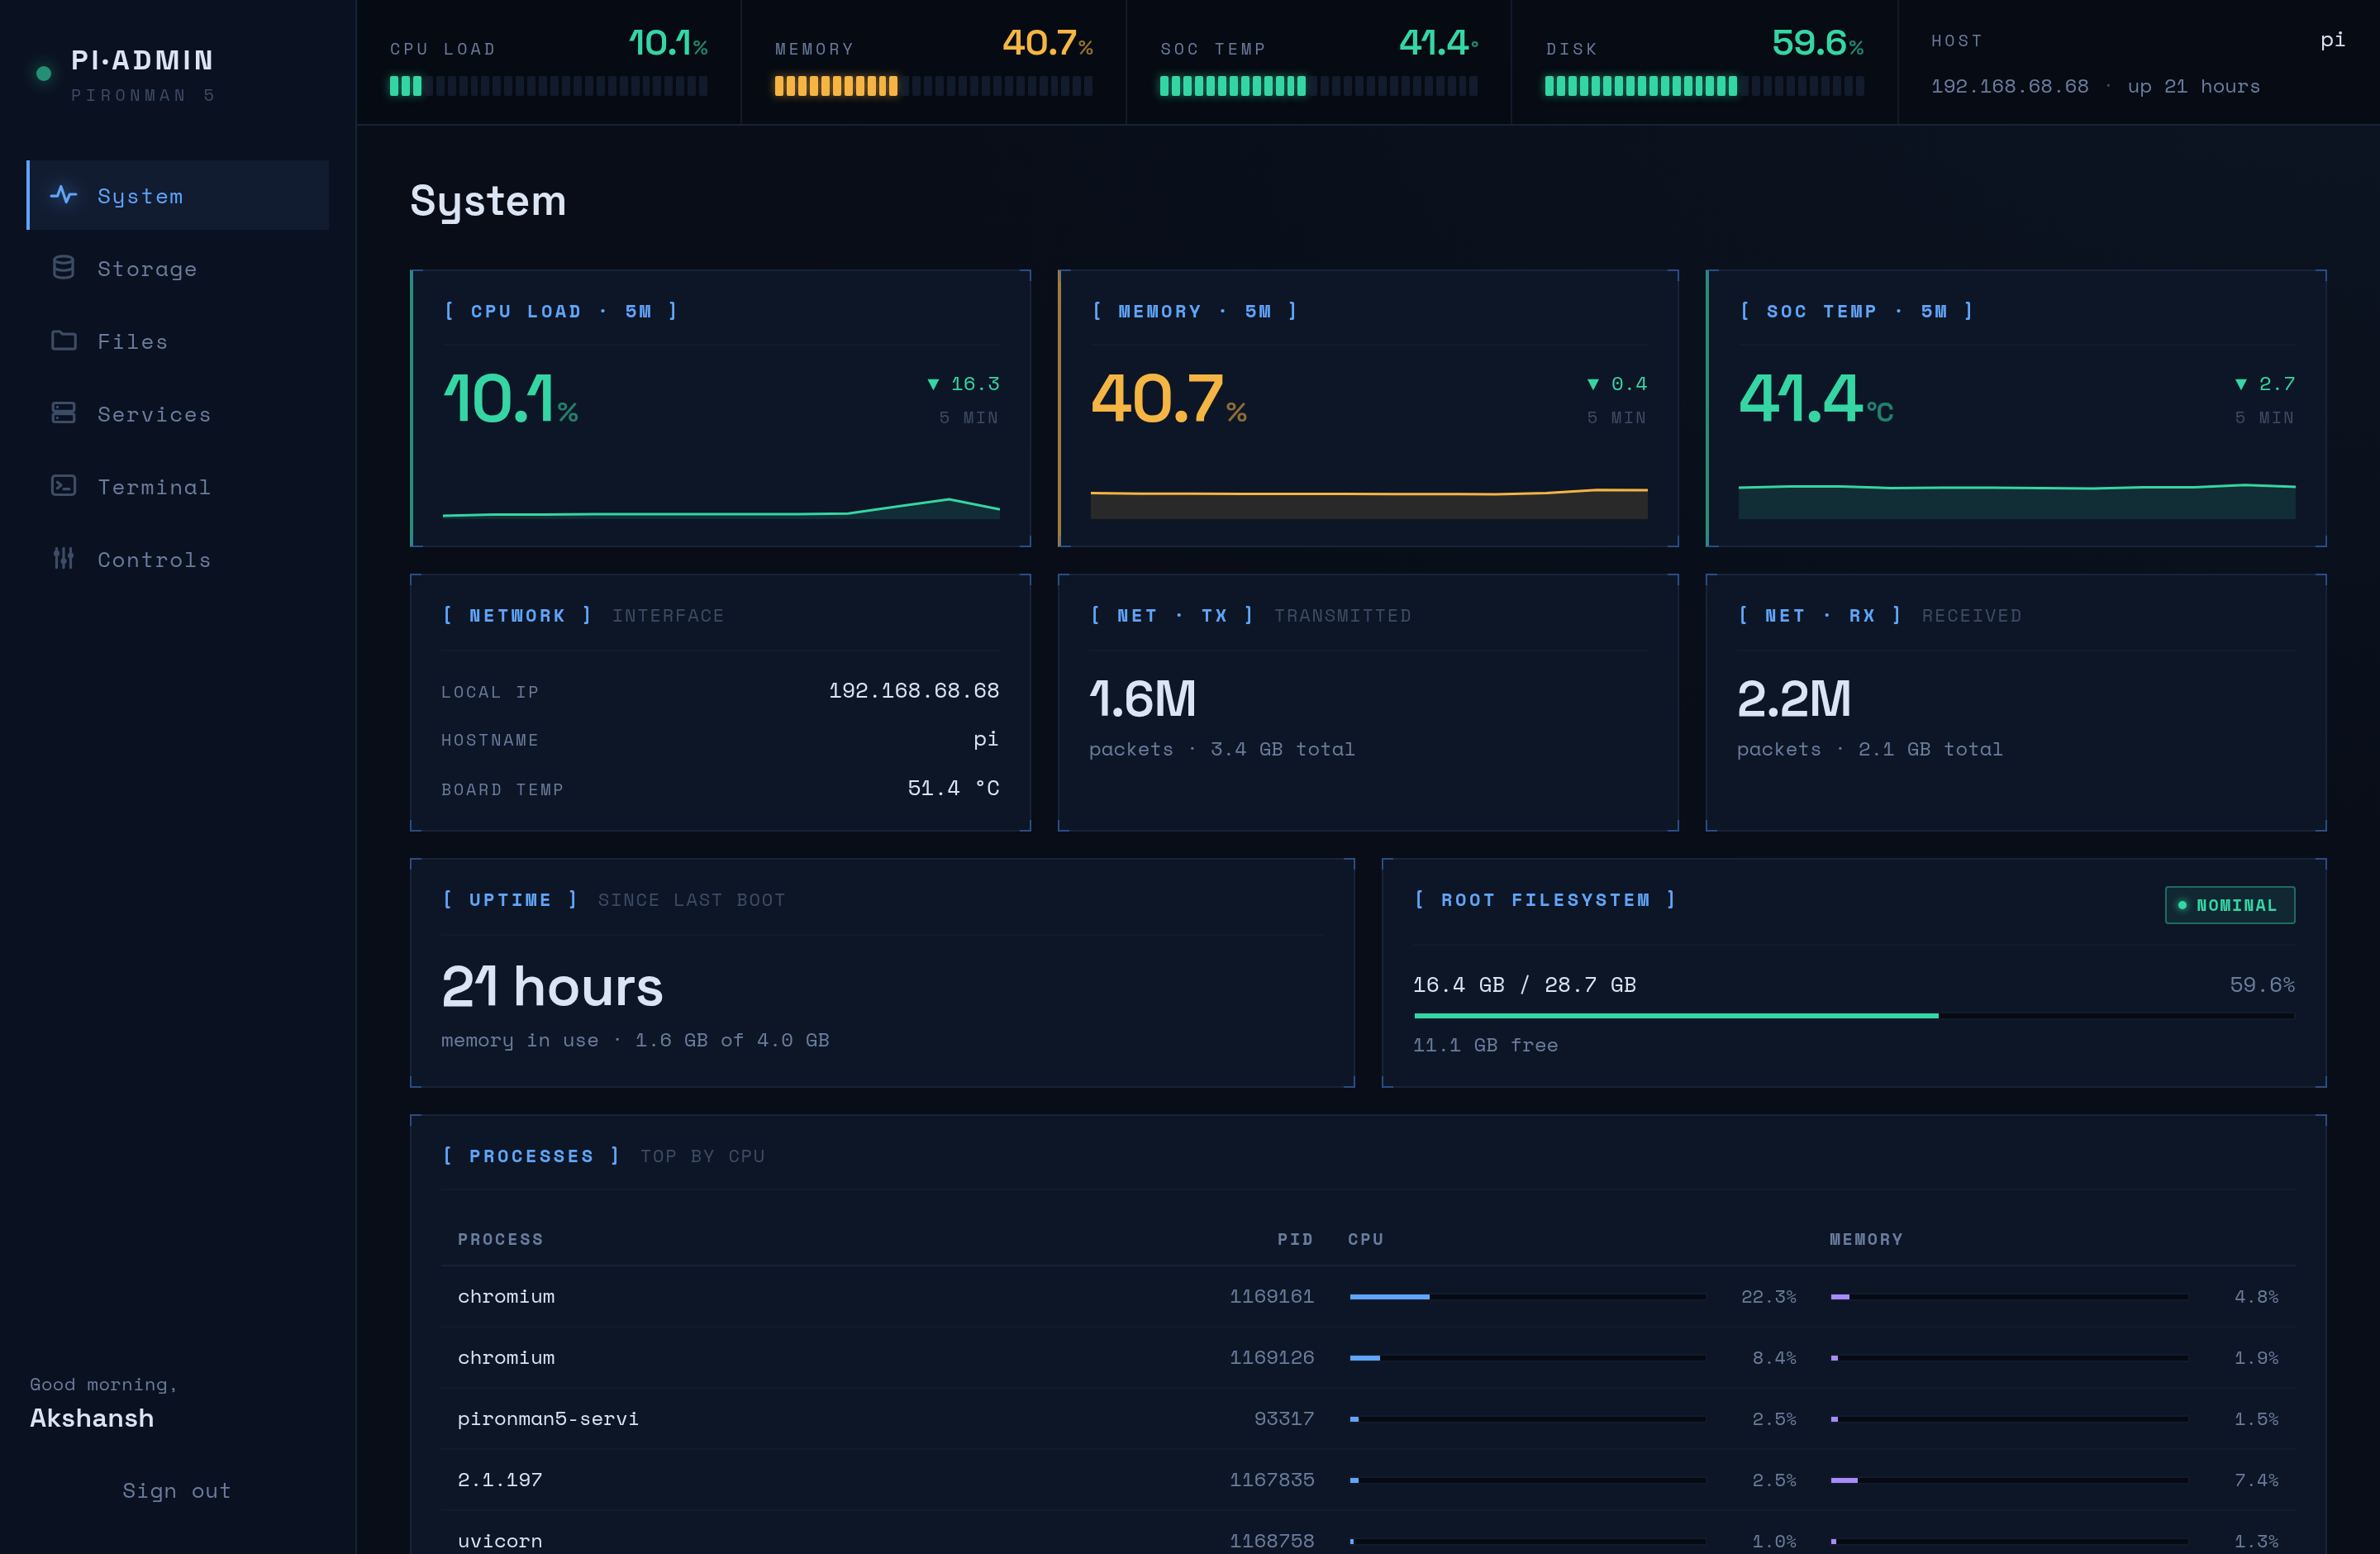
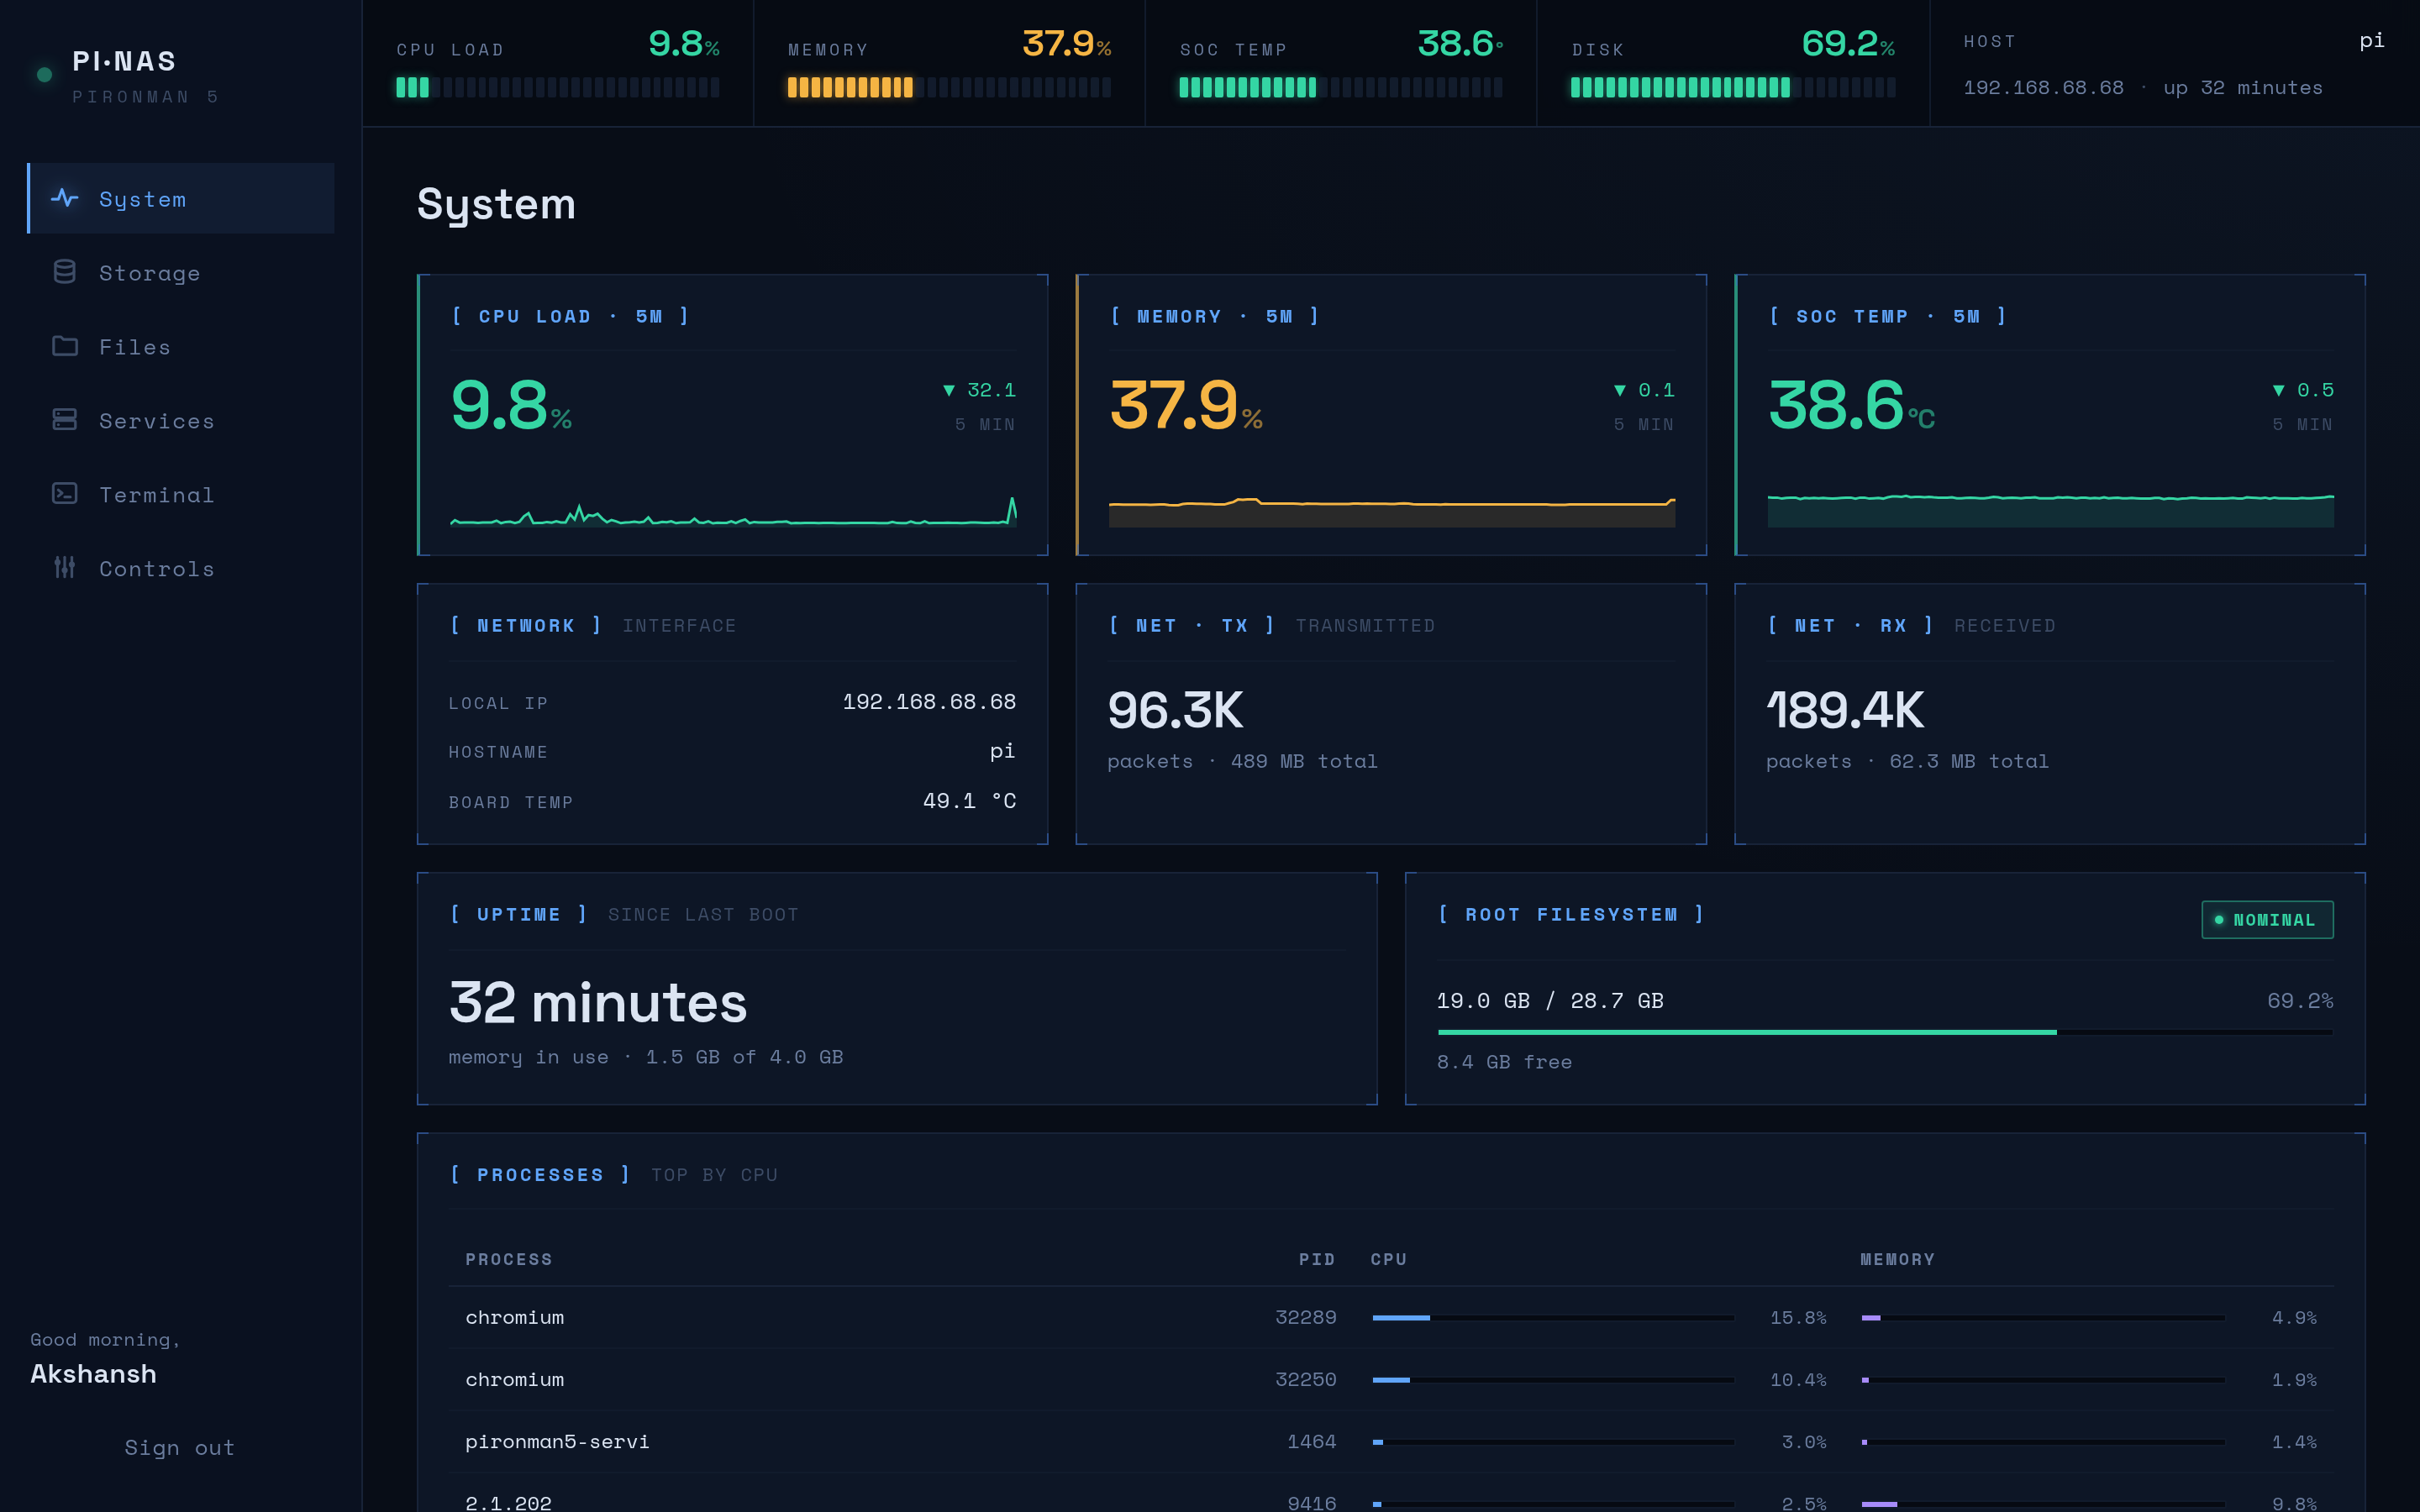
docs: beautiful README with feature grid, screenshot tour, keyboard reference
- Full README rewrite: hero, prominent badges, "Why?" section, 3x2 feature
  grid with emoji tab icons, screenshot tour with a collapsible for the extra
  images, keyboard shortcut table for the media viewer, side-by-side services
  + layout tables, and troubleshooting as expandable details
- Added docs/files.png, storage.png, services.png, terminal.png, login.png
- Re-shot docs/dashboard.png against the current UI (PI·NAS brand, updated
  sidebar icons, latest telemetry rail)

diff --git a/README.md b/README.md
@@ -1,41 +1,123 @@
 <div align="center">
 
-# 🖥️ PiNAS
+# PiNAS
 
-**A self-hosted admin dashboard + NAS for a Raspberry Pi in a Pironman 5 case.**
+**A self-hosted dashboard + NAS for a Raspberry Pi 5 in a Pironman 5 case.**
 
-Live telemetry, RAID & Samba, a file explorer, an in-browser terminal, and case
-controls — behind one clean instrument-panel UI.
+Live telemetry, RAID & Samba, a photo-viewing file explorer, an in-browser
+terminal, and case controls — one clean instrument-panel UI.
 
-![Raspberry Pi](https://img.shields.io/badge/Raspberry_Pi-5-A22846?style=flat-square&logo=raspberrypi&logoColor=white)
-![FastAPI](https://img.shields.io/badge/FastAPI-backend-009688?style=flat-square&logo=fastapi&logoColor=white)
-![React](https://img.shields.io/badge/React-18-60A5FA?style=flat-square&logo=react&logoColor=white)
-![Vite](https://img.shields.io/badge/Vite-build-646CFF?style=flat-square&logo=vite&logoColor=white)
-![Tailscale](https://img.shields.io/badge/Tailscale-remote_access-242424?style=flat-square&logo=tailscale&logoColor=white)
+<br />
+
+[![Raspberry Pi 5](https://img.shields.io/badge/Raspberry_Pi-5-A22846?style=for-the-badge&logo=raspberrypi&logoColor=white)](https://www.raspberrypi.com/products/raspberry-pi-5/)
+[![FastAPI](https://img.shields.io/badge/FastAPI-0.115-009688?style=for-the-badge&logo=fastapi&logoColor=white)](https://fastapi.tiangolo.com/)
+[![React](https://img.shields.io/badge/React-18-60A5FA?style=for-the-badge&logo=react&logoColor=white)](https://react.dev/)
+[![Vite](https://img.shields.io/badge/Vite-5-646CFF?style=for-the-badge&logo=vite&logoColor=white)](https://vitejs.dev/)
+[![Tailscale](https://img.shields.io/badge/Tailscale-remote_access-242424?style=for-the-badge&logo=tailscale&logoColor=white)](https://tailscale.com/)
+
+<br />
+
+<img src="docs/dashboard.png" alt="PiNAS — System tab with live telemetry, sparklines, and process table" width="920">
 
 </div>
 
-<p align="center">
-  <img src="docs/dashboard.png" alt="PiNAS dashboard — System tab" width="920">
-</p>
-
 ---
+
+## Why?
+
+A Raspberry Pi in a Pironman case is a lovely little machine. Off-the-shelf
+tools for looking after it usually mean stitching together Grafana + Cockpit +
+Samba GUI + a file browser + SSH terminal. **PiNAS is that stitch**, purpose-built
+for one operator on one Pi, with a single install script and a single web UI.
+
+Everything runs on the Pi. Nothing phones home.
 
 ## What's inside
 
-| Tab | What it does |
-| --- | --- |
-| **System** | Live CPU, RAM, temperature, disk, network and processes, streamed over Server-Sent Events (every 2s) |
-| **Storage** | RAID create / assemble / mount / repair, Samba shares & users, and per-drive **SMART** health |
-| **Files** | Browse the NAS; upload, download (files *and* folders as a streamed `.zip`), preview photos / video / audio / text; sort columns and filter by name |
-| **Services** | Start / stop / restart systemd units with live `journalctl` tailing, plus a **Tailscale** panel (status, devices, copy-ready URLs) |
-| **Terminal** | A real bash login shell in the browser — xterm.js over a WebSocket-backed PTY |
-| **Controls** | Reboot / shutdown, check *and apply* apt updates, Pironman RGB / OLED / case-fan, and the CPU fan |
+<table>
+<tr>
+<td width="33%" valign="top">
 
-Fronted by **Apache** (HTTP + SSE + WebSocket) and reachable over **Tailscale**
-(HTTPS + SMB). The UI is a dark instrument-panel design that scales down to
-mobile. The **Files** media viewer is keyboard-driven — `← →` between items,
-`space` play/pause, `↑ ↓` volume, `esc` to close.
+### 📊 System
+
+CPU, RAM, temperature, disk, network and processes — streamed live over SSE,
+sampled every 2 seconds, with 5-minute sparklines.
+
+</td>
+<td width="33%" valign="top">
+
+### 💾 Storage
+
+Create / assemble / mount / repair **mdadm RAID** arrays. Add and manage
+**Samba** shares and users. Read **SMART** health per drive.
+
+</td>
+<td width="33%" valign="top">
+
+### 📁 Files
+
+Browse the NAS. Upload, and download files *or whole folders as a streamed
+`.zip`*. Preview photos, video, audio, and text — with a keyboard-driven media
+viewer. Even HEIC.
+
+</td>
+</tr>
+<tr>
+<td width="33%" valign="top">
+
+### ⚙️ Services
+
+Start / stop / restart your systemd units with live `journalctl` tailing.
+Tailscale panel shows tailnet status, devices, and copy-ready remote URLs.
+
+</td>
+<td width="33%" valign="top">
+
+### 🖥️ Terminal
+
+A real bash login shell in the browser — [xterm.js](https://xtermjs.org) over
+a WebSocket-backed PTY, running as your Linux user with the same permissions
+as SSH.
+
+</td>
+<td width="33%" valign="top">
+
+### 🎛️ Controls
+
+Reboot / shutdown. Check *and apply* apt updates from the UI. Pironman
+RGB / OLED / case-fan settings. CPU fan on/off. Everything in one panel.
+
+</td>
+</tr>
+</table>
+
+## Screenshot tour
+
+<img src="docs/files.png" alt="Files tab — NAS folders with sizes, download and delete actions" width="100%">
+
+<sub>Files tab: recursive folder sizes, folder-first sorting, `.zip` downloads, and inline previews.</sub>
+
+<details>
+<summary><b>More screenshots</b></summary>
+<br />
+
+**Storage — RAID, Samba, and SMART health**
+
+<img src="docs/storage.png" alt="Storage tab" width="100%">
+
+**Services — systemd controls and Tailscale**
+
+<img src="docs/services.png" alt="Services tab" width="100%">
+
+**Terminal — a real bash login shell in the browser**
+
+<img src="docs/terminal.png" alt="Terminal tab" width="100%">
+
+**Login**
+
+<img src="docs/login.png" alt="Login screen" width="100%">
+
+</details>
 
 ## Quick start
 
@@ -48,33 +130,105 @@ cd homeserver
 ./setup.sh
 ```
 
-`setup.sh` is **idempotent** — re-run it after every `git pull` to rebuild the
-frontend, sync backend dependencies, and restart services. Then open
-**http://pi.local/** and sign in with your Linux account.
+Open **http://pi.local/** and sign in with your Linux account. That's it.
 
-Hardware-specific steps (Pironman case, CPU fan) never abort the run — they warn
-and continue. Two optional env vars:
+> `setup.sh` is **idempotent** — re-run it after every `git pull` to rebuild
+> the frontend, sync backend deps, and restart services. Hardware-specific
+> steps (Pironman case, CPU fan) never abort the run: they warn and continue,
+> so you can point it at a Pi 4 or a case-less Pi 5 and everything except the
+> case controls still works.
+
+### Optional flags
 
 ```bash
-SETUP_ENABLE_NOPASSWD_SUDO=1 ./setup.sh   # add the NOPASSWD sudoers rule if your user lacks it
-SETUP_FULL_UPGRADE=1 ./setup.sh           # also run a full `apt upgrade` (slow; off by default)
+SETUP_ENABLE_NOPASSWD_SUDO=1 ./setup.sh   # add the NOPASSWD sudoers rule
+SETUP_FULL_UPGRADE=1 ./setup.sh           # also run a full `apt upgrade`
 ```
 
-## Project layout
+## Keyboard shortcuts (media viewer)
+
+The Files preview is designed to be flown with the keyboard:
+
+| Key       | Action                         |
+| :-------- | :----------------------------- |
+| **← →**   | Previous / next photo or video |
+| **Space** | Play / pause video and audio   |
+| **↑ ↓**   | Volume (persists across clips) |
+| **F**     | Toggle fullscreen              |
+| **Esc**   | Exit fullscreen, then close    |
+
+There's also a **▶ Slideshow** mode — images and audio auto-advance every 4 s
+with a progress bar; videos play through and advance when they end.
+
+## Remote access
+
+The **Services** tab shows your tailnet status, connected devices, and
+ready-to-copy URLs:
+
+| Kind          | URL                                            |
+| :------------ | :--------------------------------------------- |
+| Dashboard     | `https://<node>.<tailnet>.ts.net/`             |
+| NAS (SMB)     | `smb://<node>.<tailnet>.ts.net/<share>`        |
+| LAN dashboard | `http://pi.local/`                             |
+
+Setting up Tailscale (once, interactively):
+
+```bash
+sudo tailscale up --ssh --advertise-routes=192.168.1.0/24
+sudo tailscale serve --bg http://localhost:80
+```
+
+## Security notes
+
+- **Auth is PAM.** Sign in with your Linux user + password. The service
+  account needs passwordless sudo (default on Raspberry Pi OS) for
+  RAID / Samba / power / systemctl / SMART / Terminal actions.
+- **Terminal = SSH-equivalent.** Anyone who can sign in gets a login shell
+  with your privileges. **Do not expose PiNAS to the public internet.** LAN
+  and tailnet only.
+- **Files API is sandboxed.** Requests are confined to your Samba share paths,
+  mounted array mountpoints, and `/mnt/nas`; every path is `realpath`-checked
+  so `..` and symlink escapes are rejected.
+
+## Under the hood
+
+<table>
+<tr>
+<td width="50%" valign="top">
+
+**Managed services**
+
+| Service     | What it does                              |
+| :---------- | :---------------------------------------- |
+| `dashboard` | FastAPI backend + SPA on `127.0.0.1:8501` |
+| `fan`       | CPU fan on at boot (one-shot)             |
+| `apache2`   | Reverse proxy on port 80                  |
+
+Manage them from the **Services** tab, or with
+`journalctl -u dashboard -f`.
+
+</td>
+<td width="50%" valign="top">
+
+**Project layout**
 
 ```text
-setup.sh               ← one script that installs / updates everything
-apache2/               ← reverse-proxy config
+setup.sh          ← installs & updates everything
+apache2/          ← reverse-proxy config
 dashboard/
-  backend/             ← FastAPI app (PAM auth; system / storage / files /
-  │                       services / terminal / controls APIs)
-  frontend/            ← React + Vite SPA (dark instrument-panel UI)
+  backend/        ← FastAPI + PAM auth
+  frontend/       ← React + Vite SPA
+docs/             ← screenshots and design notes
 ```
+
+</td>
+</tr>
+</table>
 
 ## Development
 
 ```bash
-# backend — serves the API + built frontend on :8501
+# backend — serves API + built frontend on :8501
 cd dashboard/backend
 uv run uvicorn app.main:app --reload --port 8501
 
@@ -84,49 +238,47 @@ npm install
 npm run dev
 ```
 
-## Managed services
-
-| Service     | What it does                              |
-| ----------- | ----------------------------------------- |
-| `dashboard` | FastAPI backend + SPA on `127.0.0.1:8501` |
-| `fan`       | Turns the CPU fan on at boot (one-shot)   |
-| `apache2`   | Reverse proxy on port 80                  |
-
-Manage them from the **Services** tab, or with `journalctl -u dashboard -f`.
-
-## Remote access (Tailscale)
-
-`setup.sh` installs Tailscale; the first connection is interactive:
-
-```bash
-sudo tailscale up --ssh --advertise-routes=192.168.1.0/24
-sudo tailscale serve --bg http://localhost:80
-```
-
-Once connected, the **Services** tab shows tailnet status, connected devices,
-and ready-to-copy URLs:
-
-- **Dashboard (HTTPS):** `https://<node>.<tailnet>.ts.net/`
-- **NAS (SMB):** `smb://<node>.<tailnet>.ts.net/<share>`
-
-## Security notes
-
-- Sign-in uses your **Linux user + password** (PAM). The service account needs
-  passwordless sudo (default on Raspberry Pi OS) for RAID / Samba / power /
-  systemctl / SMART actions.
-- The **Terminal** tab plus passwordless sudo is equivalent to an SSH login —
-  keep the dashboard on your **LAN or tailnet**, never the public internet.
-- The **Files** API is sandboxed to your Samba share paths, mounted array
-  mountpoints, and `/mnt/nas`; every path is resolved and checked so `..` and
-  symlink escapes are rejected. Uploads / deletes run as the dashboard user.
-
 ## Troubleshooting
 
-**SSH host-key warning** after reflashing the Pi — run on *your* computer:
+<details>
+<summary><b>SSH host-key warning after reflashing</b></summary>
+
+Run on **your** computer (not on the Pi):
 
 ```bash
 ssh-keygen -R pi.local
 ```
+</details>
 
-**Find the Pi's IP** — in the TP-Link Deco app: Network → Devices → `pi`, or
-`ping pi.local`.
+<details>
+<summary><b>Can't find the Pi's IP</b></summary>
+
+Use `ping pi.local`, or if you have a TP-Link Deco network, open the Deco app
+and look under **Network → Devices** for a host named `pi`.
+</details>
+
+<details>
+<summary><b>Some dashboard actions return "sudo: a password is required"</b></summary>
+
+Your account doesn't have passwordless sudo. Re-run the installer with:
+
+```bash
+SETUP_ENABLE_NOPASSWD_SUDO=1 ./setup.sh
+```
+
+This adds a `visudo`-validated `NOPASSWD` rule for your user.
+</details>
+
+<details>
+<summary><b>The Pironman case controls don't work</b></summary>
+
+The setup script skips the Pironman install if it fails, so a non-Pironman Pi
+finishes cleanly — but that means the `pironman5` service isn't running. If
+you *do* have the case, check `journalctl -u pironman5` and confirm the
+[upstream project](https://github.com/sunfounder/pironman5) still supports
+your branch.
+</details>
+
+## License
+
+MIT.